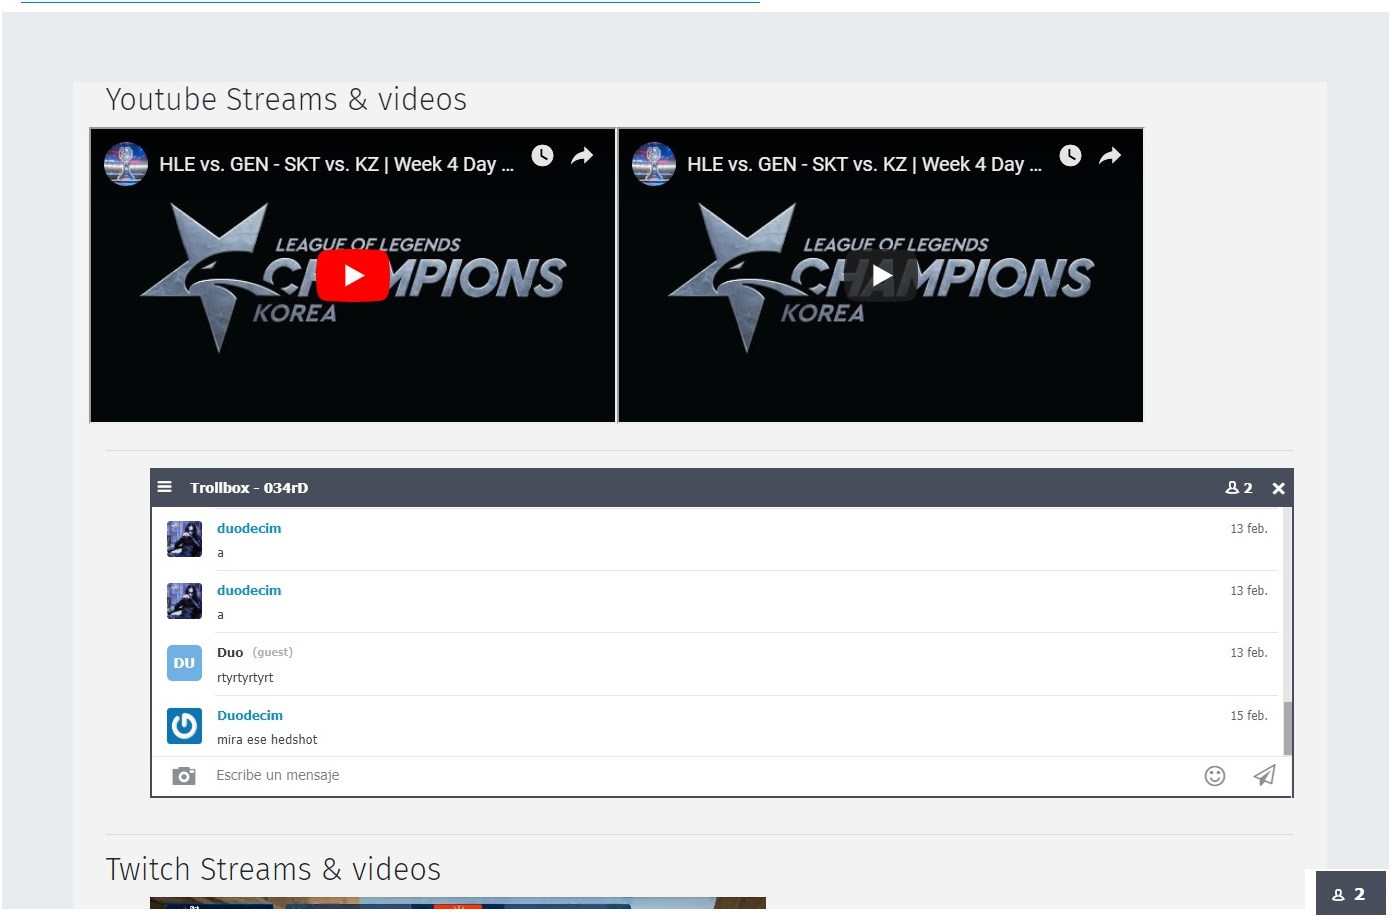
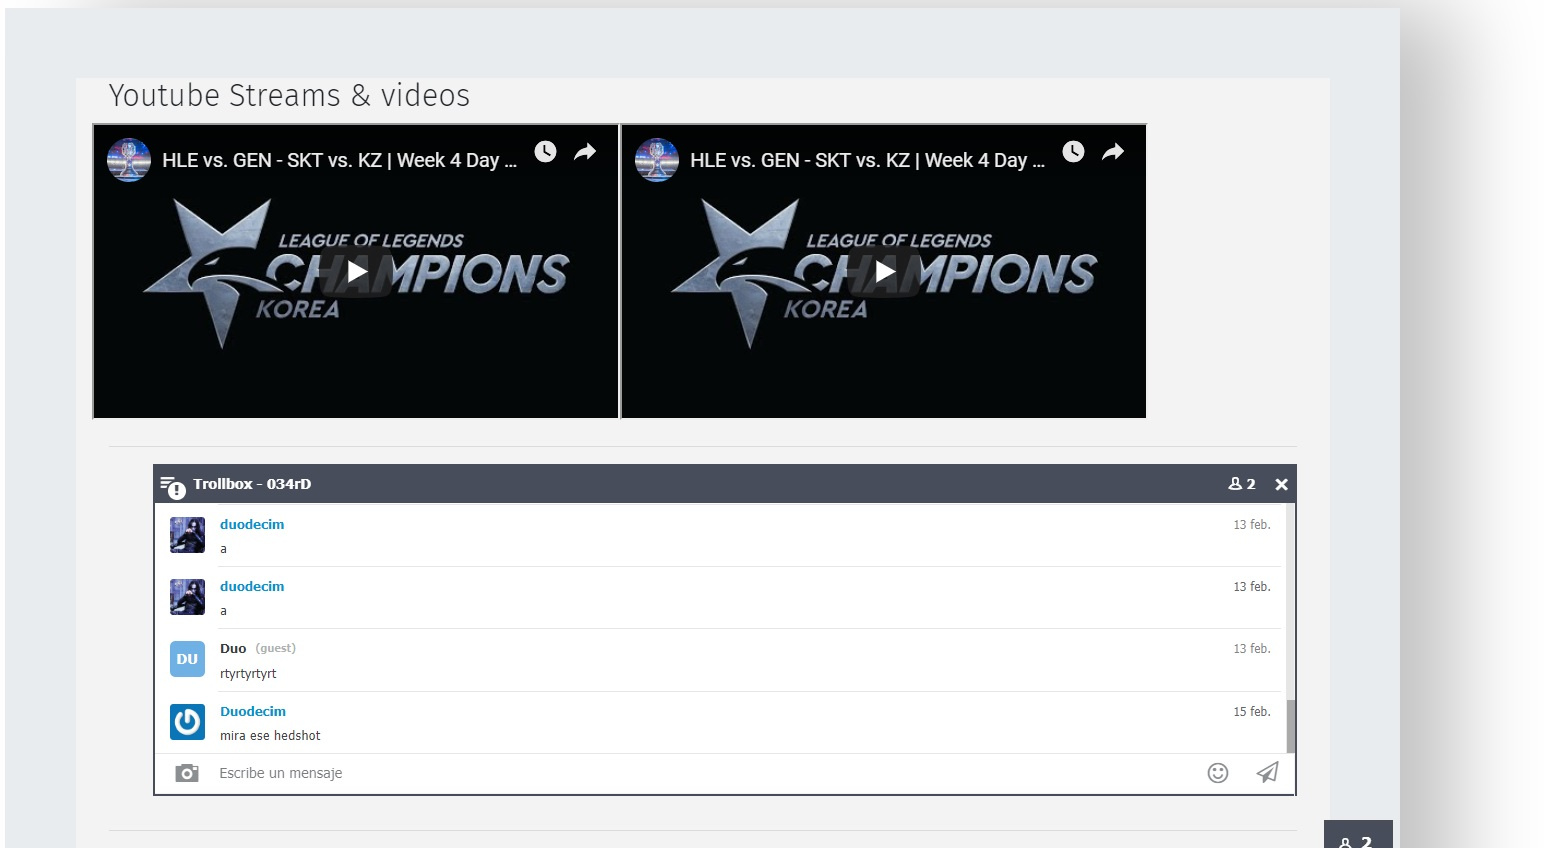
Adding Shadows

Changed region(s): [[0.0618, 0.0, 1.0, 1.0]]

diff --git a/demo4.html b/demo4.html
@@ -134,40 +134,21 @@
 
 
 
-    <div class="jumbotron jumbotron-fluid">
-        <div style="background-color: #f3f3f3 !important;" class="container">
-            <div class="row justify-content-center">
-                <div class="col">
-                    <img src="img/formImg.jpg">
-                </div>
-                <div class="col">
-                    <div class="card text-center border">
-                        <div class="card-header">Contact</div>
-                        <div class="card-body border-0 rounded">
-                            <p class="card-text text-justify">
-                                <span class="border-bottom">
-                                    Contact Us</span>
-                                laborum, iusto unde vel veniam voluptatem atque? Libero nihil eos autem?
-                            </p>
-                            <p class="card-text text-justify">
-                                Lorem ipsum dolor, sit amet consectetur adipisicing elit. Qui, ipsum.
-                                <ul class="list-group text-left">
-                                    <li class="text-left">Contact for general Questions, Subject to admin@email.com</li>
-                                    <li class="text-left">Contact for Forum Questions, Subject to
-                                        moderator@email.com</li>
-                                    <li class="text-left">Contact for Bugs Report, Subject to support@email.com</li>
-                                </ul>
-                            </p>
-                        </div>
-                    </div>
-                </div>
-            </div>
+    <div class="row">
+        <div class="col">
+
+        </div>
+        <div class="col">
+            <h1 class="text-center"> Full version Comes with Gallery Plugin, you can manage multiples Gallerys, each
+                box have
+                a full size slidebar</h1>
+
+            <img src="img/gallery.jpg">
+        </div>
+        <div class="col">
+
         </div>
     </div>
-
-
-
-
 
     <footer>
         <!-- FOOTER   -->
@@ -353,12 +334,13 @@
 
 
     </footer>
-    <!-- Scripts -->
-    <script src="js/jquery.min.js"></script>
-    <script src="js/bootstrap.bundle.js"></script>
     <br>
     <p class="text-right">Copyright © 2019 DuoGamingTemplate All rights reserved.</p>
     <hr>
+    <!-- Scripts -->
+    <script src="js/jquery.min.js"></script>
+    <script src="js/bootstrap.bundle.js"></script>
+
 </body>
 
 </html>

diff --git a/demo3.html b/demo3.html
@@ -87,7 +87,7 @@
                             <a onmouseover="this.style.color = '#99bbff';" onmouseout="this.style.color='';" class="dropdown-item "
                                 href="tournaments.html"> Live
                                 Tournaments</a>
-                            <a style="padding-left: 5px !important;" class="dropdown-item" href="tournamentEvents.html">
+                            <a style="padding-left: 5px !important;" class="dropdown-item" href="tournamentsEvents.html">
                                 Comming Tournaments</a>
                         </div>
                     </div>
@@ -107,7 +107,7 @@
                     </a>
                 </li>
                 <li class="nav-item">
-                    <a class="nav-link text-dark" href="demo.html">
+                    <a class="nav-link text-dark" href="demo4.html">
                         <h4 onmouseover="this.style.color = '#99bbff';" onmouseout="this.style.color='';">
                             GALLERY
                         </h4>

diff --git a/index.html b/index.html
@@ -2,7 +2,6 @@
 <html>
 
 <head>
-    <meta charset="<?php bloginfo('charset');?>" />
     <meta http-equiv="X-UA-Compatible" content="IE=edge">
     <meta name="viewport" content="width=device-width, initial-scale=1">
     <title>
@@ -107,7 +106,7 @@
                     </a>
                 </li>
                 <li class="nav-item">
-                    <a class="nav-link text-dark" href="demo.html">
+                    <a class="nav-link text-dark" href="demo4.html">
                         <h4 onmouseover="this.style.color = '#99bbff';" onmouseout="this.style.color='';">
                             GALLERY
                         </h4>

diff --git a/about.html b/about.html
@@ -107,7 +107,7 @@
                     </a>
                 </li>
                 <li class="nav-item">
-                    <a class="nav-link text-dark" href="demo.html">
+                    <a class="nav-link text-dark" href="demo4.html">
                         <h4 onmouseover="this.style.color = '#99bbff';" onmouseout="this.style.color='';">
                             GALLERY
                         </h4>

diff --git a/demo.html b/demo.html
@@ -107,7 +107,7 @@
                     </a>
                 </li>
                 <li class="nav-item">
-                    <a class="nav-link text-dark" href="demo.html">
+                    <a class="nav-link text-dark" href="demo4.html">
                         <h4 onmouseover="this.style.color = '#99bbff';" onmouseout="this.style.color='';">
                             GALLERY
                         </h4>

diff --git a/demo2.html b/demo2.html
@@ -107,7 +107,7 @@
                     </a>
                 </li>
                 <li class="nav-item">
-                    <a class="nav-link text-dark" href="demo.html">
+                    <a class="nav-link text-dark" href="demo4.html">
                         <h4 onmouseover="this.style.color = '#99bbff';" onmouseout="this.style.color='';">
                             GALLERY
                         </h4>

diff --git a/tournaments.html b/tournaments.html
@@ -107,7 +107,7 @@
                     </a>
                 </li>
                 <li class="nav-item">
-                    <a class="nav-link text-dark" href="demo.html">
+                    <a class="nav-link text-dark" href="demo4.html">
                         <h4 onmouseover="this.style.color = '#99bbff';" onmouseout="this.style.color='';">
                             GALLERY
                         </h4>

diff --git a/tournamentsEvents.html b/tournamentsEvents.html
@@ -107,7 +107,7 @@
                     </a>
                 </li>
                 <li class="nav-item">
-                    <a class="nav-link text-dark" href="demo.html">
+                    <a class="nav-link text-dark" href="demo4.html">
                         <h4 onmouseover="this.style.color = '#99bbff';" onmouseout="this.style.color='';">
                             GALLERY
                         </h4>
